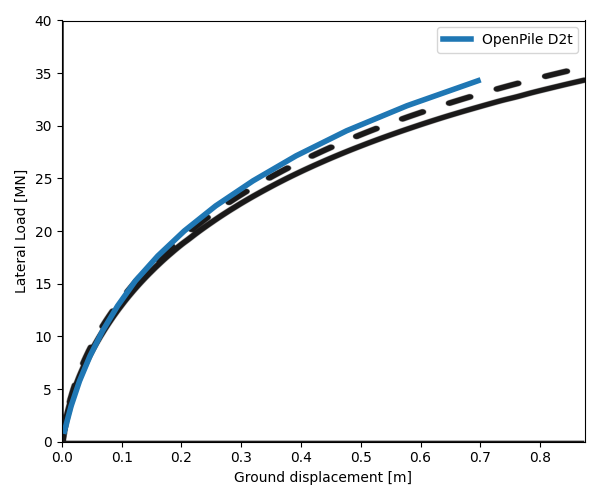
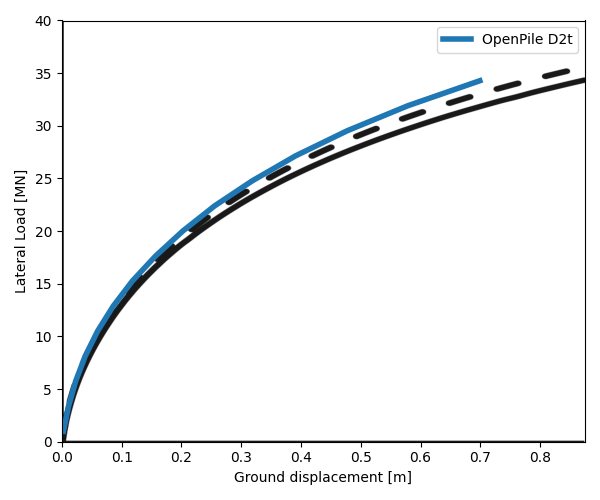
correct lines where props are assigned to pile where it should now be in pile.sections

diff --git a/src/openpile/construct.py b/src/openpile/construct.py
@@ -264,19 +264,20 @@ class Pile(AbstractPile):
     >>> from openpile.construct import Pile, CircularPileSection
     >>> # Create a pile instance with two sections of respectively 10m and 30m length.
     >>> pile = Pile(name = "",
-    ...         material='Steel',
     ...         sections=[
     ...             CircularPileSection(
     ...                 top=0, 
     ...                 bottom=-10, 
     ...                 diameter=7.5, 
-    ...                 thickness=0.07
+    ...                 thickness=0.07,
+    ...                 material='Steel'
     ...             ),
     ...             CircularPileSection(
     ...                 top=-10, 
     ...                 bottom=-40, 
     ...                 diameter=7.5, 
-    ...                 thickness=0.08
+    ...                 thickness=0.08,
+    ...                 material='Steel'
     ...             ),
     ...         ]
     ...     )
@@ -335,10 +336,13 @@ class Pile(AbstractPile):
                 ],
                 "Width [m]": [x.width for x in self.sections for x in [x, x]],
                 "Area [m2]": [x.area for x in self.sections for x in [x, x]],
+                "E [kPa]": [x.material.E for x in self.sections for x in [x, x]],
                 "I [m4]": [x.second_moment_of_area for x in self.sections for x in [x, x]],
+                "Unit weight [kN/m3]": [x.material.unitweight for x in self.sections for x in [x, x]],
                 "Entrapped Area [m2]": [x.entrapped_area for x in self.sections for x in [x, x]],
                 "Outer Perimeter [m]": [x.outer_perimeter for x in self.sections for x in [x, x]],
                 "Inner Perimeter [m]": [x.inner_perimeter for x in self.sections for x in [x, x]],
+                "Poisson ratio [-]": [x.material.poisson for x in self.sections for x in [x, x]],
             }
         )
 
@@ -740,7 +744,6 @@ class SoilProfile(AbstractSoilProfile):
             from openpile.construct import Pile, CircularPileSection
             # Create a pile instance with two sections of respectively 10m and 30m length.
             p = Pile(name = "",
-                    material='Steel',
                     sections=[
                         CircularPileSection(
                             top=0,
@@ -890,7 +893,6 @@ class Model(AbstractModel):
     >>> from openpile.soilmodels import API_sand
     >>> # create pile
     ... p = Pile(name = "",
-    ...          material='Steel',
     ...          sections=[
     ...             CircularPileSection(
     ...                 top=0,
@@ -1004,8 +1006,6 @@ class Model(AbstractModel):
             right_on="Elevation [m]",
             direction="forward",
         ).sort_values(by=["z_top [m]"], ascending=False)
-        # add young modulus to data
-        element_properties["E [kPa]"] = self.pile.material.young_modulus
         # delete Elevation [m] column
         element_properties.drop("Elevation [m]", inplace=True, axis=1)
         # reset index
@@ -1363,12 +1363,13 @@ class Model(AbstractModel):
 
             elem_z_top = self.element_properties["z_top [m]"].values
             elem_z_bottom = self.element_properties["z_bottom [m]"].values
+            elem_unit_weight = self.element_properties["Unit weight [kN/m3]"].values
             V = (elem_z_top - elem_z_bottom) * parameter2elements(
                 self.pile.sections, lambda x: x.area, elem_z_top, elem_z_bottom
             )
             W = np.zeros(shape=V.shape)
-            W[submerged_element] = V[submerged_element] * (self.pile.material.unitweight - 10)
-            W[~submerged_element] = V[~submerged_element] * (self.pile.material.unitweight)
+            W[submerged_element] = V[submerged_element] * (elem_unit_weight[submerged_element] - 10)
+            W[~submerged_element] = V[~submerged_element] * (elem_unit_weight[~submerged_element])
             return W.sum()
 
         else:

diff --git a/src/openpile/core/kernel.py b/src/openpile/core/kernel.py
@@ -208,18 +208,27 @@ def elem_mechanical_stiffness_matrix(model):
 
     # calculate length vector
     L = mesh_to_element_length(model)
-    # elastic properties
-    nu = model.pile.material.poisson
-    E = model.pile.material.young_modulus * np.ones(L.shape).reshape((-1, 1, 1))
-    G = E / (2 + 2 * nu)
+
 
     # initialize element properties
     elem_prop = model.element_properties
 
-    # cross-section properties
+    # elastic properties / cross-section properties
+    E = parameter2elements(
+        model.pile.sections,
+        lambda x: x.material.young_modulus,
+        elem_prop["z_top [m]"].values,
+        elem_prop["z_bottom [m]"].values,
+    ).reshape((-1, 1, 1))
     I = parameter2elements(
         model.pile.sections,
         lambda x: x.second_moment_of_area,
+        elem_prop["z_top [m]"].values,
+        elem_prop["z_bottom [m]"].values,
+    ).reshape((-1, 1, 1))
+    nu = parameter2elements(
+        model.pile.sections,
+        lambda x: x.material.poisson,
         elem_prop["z_top [m]"].values,
         elem_prop["z_bottom [m]"].values,
     ).reshape((-1, 1, 1))
@@ -229,6 +238,7 @@ def elem_mechanical_stiffness_matrix(model):
         elem_prop["z_top [m]"].values,
         elem_prop["z_bottom [m]"].values,
     ).reshape((-1, 1, 1))
+    G = E / (2 + 2 * nu)
 
     # calculate shear component in stiffness matrix (if Timorshenko)
     if model.element_type == "EulerBernoulli":
@@ -479,14 +489,22 @@ def elem_mt_stiffness_matrix(model, u, kind):
     # initialize element properties
     elem_prop = model.element_properties
 
-    # elastic properties
-    nu = model.pile.material.poisson
-    E = model.pile.material.young_modulus * np.ones(L.shape).reshape((-1, 1, 1))
-    G = E / (2 + 2 * nu)
-    # cross-section properties
+    # elastic properties / cross-section properties
+    E = parameter2elements(
+        model.pile.sections,
+        lambda x: x.material.young_modulus,
+        elem_prop["z_top [m]"].values,
+        elem_prop["z_bottom [m]"].values,
+    ).reshape((-1, 1, 1))
     I = parameter2elements(
         model.pile.sections,
         lambda x: x.second_moment_of_area,
+        elem_prop["z_top [m]"].values,
+        elem_prop["z_bottom [m]"].values,
+    ).reshape((-1, 1, 1))
+    nu = parameter2elements(
+        model.pile.sections,
+        lambda x: x.material.poisson,
         elem_prop["z_top [m]"].values,
         elem_prop["z_bottom [m]"].values,
     ).reshape((-1, 1, 1))
@@ -496,6 +514,7 @@ def elem_mt_stiffness_matrix(model, u, kind):
         elem_prop["z_top [m]"].values,
         elem_prop["z_bottom [m]"].values,
     ).reshape((-1, 1, 1))
+    G = E / (2 + 2 * nu)
 
     # calculate shear component in stiffness matrix (if Timorshenko)
     if model.element_type == "EulerBernoulli":
@@ -815,7 +834,7 @@ def pile_internal_forces(model, u):
     node_per_element = 2
 
     # create mech consistent stiffness matrix
-    k = elem_mechanical_stiffness_matrix(model)
+    k = elem_mechanical_stiffness_matrix(model) + elem_mt_stiffness_matrix(model, u, kind="secant")
 
     # create array u of shape [n_elem x 6 x 1]
     u = global_dof_vector_to_consistent_stacked_array(u, ndof_per_node * node_per_element)
